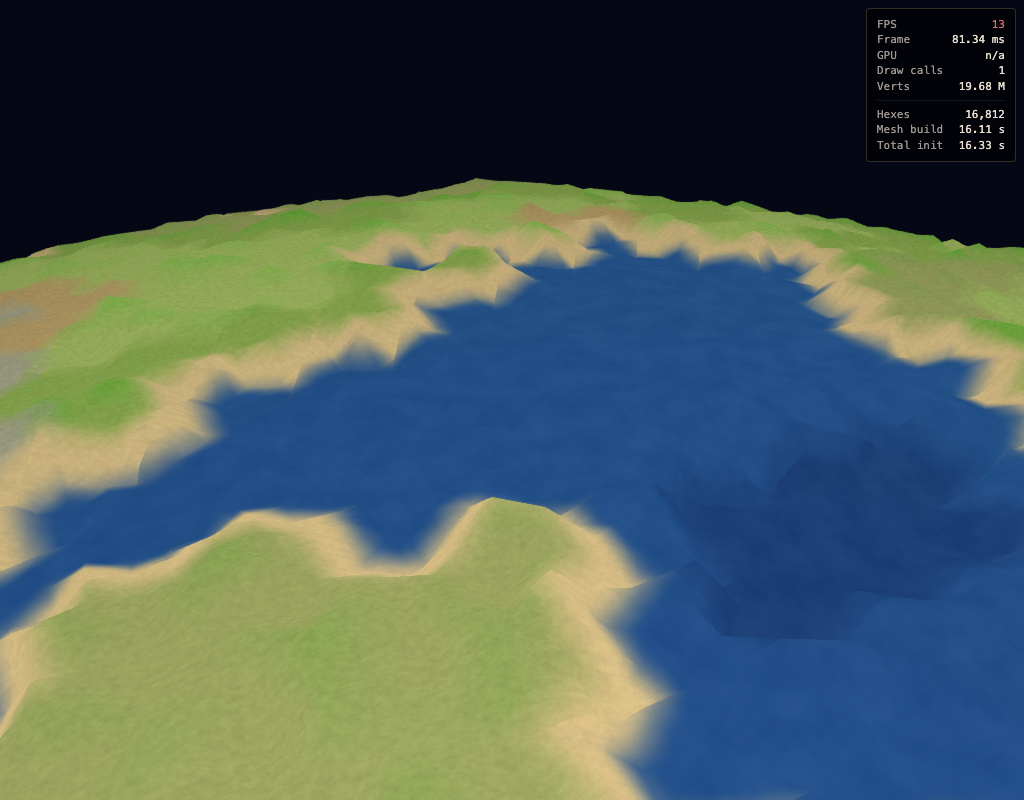
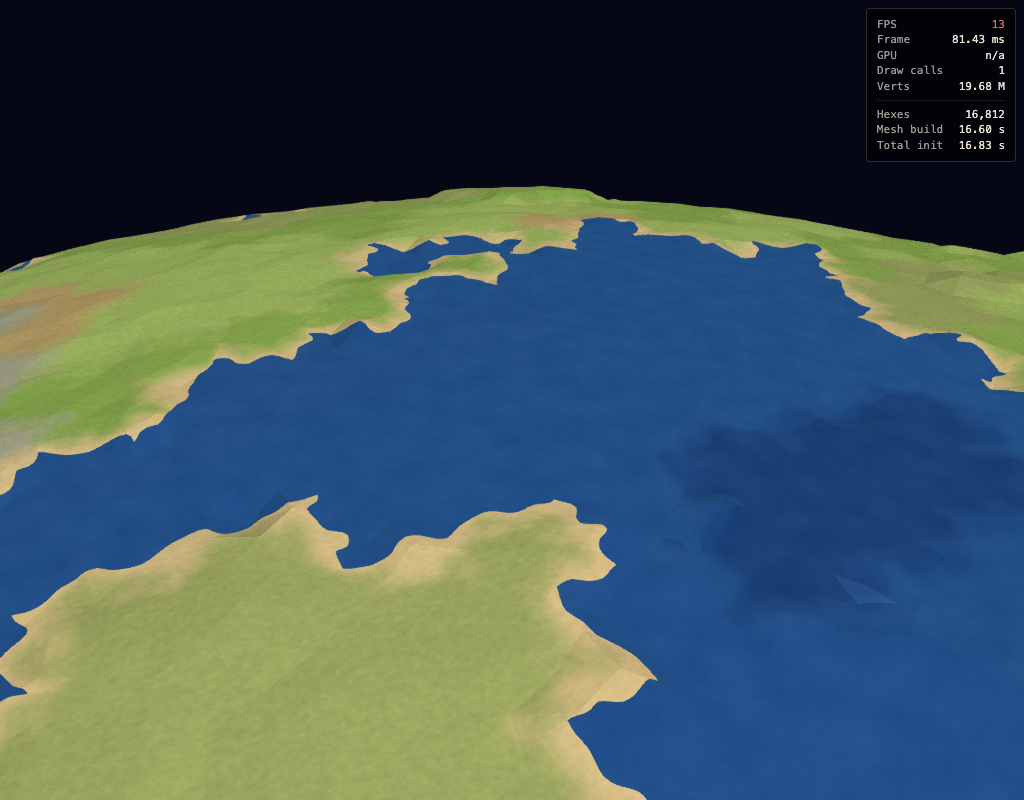
Phase 5+6: dFdx normals, water-flatten, boundary-noise — match legacy quality
User feedback: terrains looked flat / 90s game / coastline blocky / cliffs no
texture. Multiple structural fixes:

1. Surface normals via dFdx/dFdy of vWorldPos. The legacy GLSL_CLIFF_
   RENDERING chunk gates rock-texture rendering on
   `steepness > 0.003`, but my smooth-sphere normal stayed radial -> 0
   steepness -> the slab-rock branch never fired. Now we compute the
   actual triangle facet normal from screen-space derivatives of the
   displaced world position. Cliff faces light up with the legacy slab
   texture.

2. Flat water surface. Phase 5 was displacing water tiers (-0.020R,
   -0.008R) to different elevations, producing visible stair-step seams
   in the water. Water hexes now collapse to a uniform WATER_FLAT_DEPTH
   = -0.001R. Tier color difference (deep vs shallow) is preserved
   purely in the fragment-side fresnel mix.

3. Sharp coast boundary. Inline water rendering moved to AFTER the cliff
   and beach branches (string-spliced into GLSL_BEACH_OVERLAY_NO_CLOSE),
   so the legacy cliff/beach overlays don't bleed rock textures onto
   water hex tops. Cross-blend across water<->land transitions is
   suppressed; only water<->water (deep<->shallow) blends.

4. Boundary-noise perturbation. The biggest fix: hex IDs come from
   worldPosToHexId(vSpherePos), so colors were always hex-aligned even
   though geometry was displaced. Solution: perturb the lookup position
   itself with a 3D simplex noise (amp 0.004 unit-sphere, freq 80) just
[…]

diff --git a/src/lib/engine/shader-globe-material.ts b/src/lib/engine/shader-globe-material.ts
@@ -318,11 +318,26 @@ float tierHeight(float level) {
 vec2 phase5AndPhase6Displacement(vec3 P, float ownLevel) {
     if (g_hexId < 0.0) return vec2(0.0, 1.0); // safe fallback
 
-    float ownH = tierHeight(ownLevel);
+    // Water hexes (heightLevel 0 or 1) collapse to a single uniform depth
+    // just below sea level. Two reasons:
+    //
+    //   1. Without flattening, deep ocean (-0.020R) vs shallow (-0.008R)
+    //      produce stair-step seams in the water surface (inline water
+    //      paints the displaced seafloor, not a separate flat plane).
+    //
+    //   2. The flat depth must be slightly below tier 2 land (0.0R) so
+    //      every coastline (including water -> tier 2 land) shows a
+    //      geometric cliff. If both were 0, coastlines would be perfectly
+    //      hex-aligned with no displacement to break the 60-degree edges.
+    //
+    // -0.001R = ~6 km. Subtle but enough for Phase 6 noise to wiggle the
+    // boundary visibly. Deep vs shallow color difference is preserved
+    // purely in the fragment-side fresnel mix (no geometry needed).
+    const float WATER_FLAT_DEPTH = -0.001;
+    bool ownIsWater = (ownLevel <= 1.5);
+    float ownH = ownIsWater ? WATER_FLAT_DEPTH : tierHeight(ownLevel);
 
     if (g_isPentagon) {
-        // Pentagons: flat top, no noise (they don't have a clean (i, j) for
-        // the row-parity-dependent neighbor offsets).
         return vec2(ownH, 1.0);
     }
 
@@ -340,7 +355,16 @@ vec2 phase5AndPhase6Displacement(vec3 P, float ownLevel) {
 
     float nbHexId = neighborIdAtEdge(closestEdge);
     float nbLevel = (nbHexId >= 0.0) ? sampleHexData(nbHexId).y : ownLevel;
-    float nbH = tierHeight(nbLevel);
+    bool nbIsWater = (nbLevel <= 1.5);
+    float nbH = nbIsWater ? WATER_FLAT_DEPTH : tierHeight(nbLevel);
+
+    // For Phase 6 cliff-noise activation we want the *real* tier delta,
+    // not the post-flatten delta. Water-flatten makes water and land tier-2
+    // both sit at h=0 (delta=0), which would kill cliff noise at every
+    // sea-level coastline. Compute the "true" delta from the tier tables.
+    float ownTierH = tierHeight(ownLevel);
+    float nbTierH  = tierHeight(nbLevel);
+    float trueHeightDelta = abs(nbTierH - ownTierH);
 
     // Strategy 3: flat hex top + sharp transition near edge. The "0.15"
     // is the plan's edge-band fraction (last 15% of edge distance gets the
@@ -349,19 +373,18 @@ vec2 phase5AndPhase6Displacement(vec3 P, float ownLevel) {
     float strategyH = mix(nbH, ownH, t);
     float h = strategyH;
 
-    // Interior surface noise (matches legacy hex-heights.ts). Applied to
-    // every vertex, not just at cliff edges -- gives the small variation
-    // legacy mesh has from fbm displacement on every hex top. 3-octave
-    // simplex; water hexes (level 0/1) use abs() so the noise pushes UP
-    // from the seafloor rather than oscillating sea level; land hexes
-    // bias slightly upward (+0.3) to match legacy's land formula.
-    {
+    // Interior surface noise. Land hexes only -- water surface stays
+    // perfectly flat at sea level. The legacy stack gets bumpy water
+    // visuals from the water-sphere's wave shader, not from displacement.
+    // Adding noise to water hexes here would re-introduce the visible
+    // stair-step / wobble pattern we just fixed by flattening to sea level.
+    if (!ownIsWater) {
         vec3 iP = P * interiorNoiseFreq;
         float iN = snoise(iP)         * 0.55
                  + snoise(iP * 2.07)   * 0.30
                  + snoise(iP * 4.13)   * 0.15;
-        float iH = (ownLevel <= 1.5) ? abs(iN) : (iN + 0.3);
-        h += iH * interiorNoiseAmp;
+        // Land bias: +0.3 so plains don't dip below sea level into water palette.
+        h += (iN + 0.3) * interiorNoiseAmp;
     }
 
     // Phase 6: cliff-face noise. Active where edge is close AND height
@@ -372,8 +395,10 @@ vec2 phase5AndPhase6Displacement(vec3 P, float ownLevel) {
     // double-tier-step (delta=0.010) saturates. Audit-flagged: the prior
     // 0.012 underrepresented single-tier transitions.
     float cliffness = 1.0 - smoothstep(0.0, 0.15, edgeDistNorm);
-    float heightDelta = abs(nbH - ownH);
-    float cliffActivity = cliffness * smoothstep(0.0, 0.008, heightDelta);
+    // Use the tier-table delta (not the post-flatten delta) so coastlines
+    // (water tier 0/1 -> land tier 2/3/4) trigger cliff noise even though
+    // both sides display at h=0.
+    float cliffActivity = cliffness * smoothstep(0.0, 0.008, trueHeightDelta);
     if (cliffActivity > 0.0001) {
         // 3-octave simplex (snoise comes from GLSL_NOISE in fragment, from
         // GLSL_NOISE_VERTEX_SUBSET in vertex; same Ashima impl in both).
@@ -519,7 +544,20 @@ float snoise(vec3 v) {
 const GLSL_MAIN_SETUP_NEW = /* glsl */ `
 void main() {
     vec3 P = normalize(vSpherePos);
-    vec3 N = normalize(vWorldNormal);
+
+    // Analytic surface normal from screen-space derivatives of the
+    // *displaced* world position. The vertex shader sets vWorldNormal
+    // to the radial-out direction, but on cliff faces (where the Phase 5
+    // ramp tilts the surface 45-90deg sideways) that's wrong. Using
+    // dFdx/dFdy of vWorldPos gives the actual triangle's facet normal,
+    // including all the displacement noise. Result: legacy GLSL_CLIFF_
+    // RENDERING's steepness > 0.003 gate fires correctly on cliff faces,
+    // unlocking the slab-map rock texture.
+    vec3 ddxP = dFdx(vWorldPos);
+    vec3 ddyP = dFdy(vWorldPos);
+    vec3 N = normalize(cross(ddxP, ddyP));
+    if (dot(N, vWorldPos) < 0.0) N = -N;  // ensure outward orientation
+
     bool isWall = false;  // smooth sphere -- no walls
     float distFromCenter = length(vWorldPos);
     float heightAboveR = distFromCenter - planetRadius;
@@ -528,7 +566,22 @@ void main() {
     if (isWall) {
         procColor = vec3(0.0);
     } else {
-        computeHexLookup(P);
+        // Perturb the hex lookup position with a small noise displacement
+        // so coast and biome boundaries don't follow the perfect 60-degree
+        // hex edges. The noise amplitude must stay below the hex apothem
+        // in unit-sphere terms (~ 0.5/(res+1) = 0.012 at res=40) so most
+        // fragments still land in their own hex; only fragments within
+        // ~AMP of an edge see the noise potentially flip them to the
+        // neighbor. Result: coastlines, biome borders, and cliff lines
+        // are all wavy rather than hex-aligned.
+        vec3 boundaryNoise = vec3(
+            snoise(P * 80.0),
+            snoise(P * 80.0 + vec3(100.0, 0.0, 0.0)),
+            snoise(P * 80.0 + vec3(0.0, 100.0, 0.0))
+        );
+        vec3 P_lookup = normalize(P + boundaryNoise * 0.004);
+
+        computeHexLookup(P_lookup);
         float hexIdF = g_hexId;
         if (hexIdF < 0.0) {
             gl_FragColor = vec4(0.4, 0.4, 0.4, 1.0);
@@ -636,10 +689,18 @@ void main() {
             procColor = ownColor;
         }
 
-        // Phase 4 inline water (see comments on the original Phase 4
-        // commit). Phase 5/6 displacement makes water hexes geometrically
-        // lower than land, but we keep the inline color since the legacy
-        // water-sphere isn't wired into shader-preview yet.
+        // Water override is now in GLSL_WATER_OVERRIDE_LAST, injected at
+        // the END of the else block so the legacy cliff + beach branches
+        // can run for non-water hexes without overwriting water hex tops
+        // with seafloor rock textures.
+`;
+
+// ── GLSL_WATER_OVERRIDE_LAST ────────────────────────────────
+// Injected at the end of the else block (between BEACH_OVERLAY's body
+// and its closing brace) so cliff and beach branches don't overwrite
+// the water hex's surface with rock textures. Sharp coast boundary --
+// water-water cross-blend only, no water-land blend.
+const GLSL_WATER_OVERRIDE_LAST = /* glsl */ `
         if (selfIsWater) {
             vec3 viewDir = normalize(cameraPos - vWorldPos);
             float fresnel = pow(1.0 - max(0.0, dot(N, viewDir)), 2.0);
@@ -650,12 +711,12 @@ void main() {
             else selfWater = mix(deepColor, shallowColor, fresnel * 0.3 + 0.2);
 
             vec3 waterCol = selfWater;
-            if (hasCrossBlend) {
+            bool nbIsWater = (neighborId == 0 || neighborId == 1 || neighborId == 3);
+            if (hasCrossBlend && nbIsWater) {
                 vec3 nbWater;
                 if (neighborId == 0) nbWater = mix(deepColor, shallowColor, fresnel * 0.3 + 0.1);
                 else if (neighborId == 1) nbWater = mix(deepColor, shallowColor, fresnel * 0.3 + 0.4);
-                else if (neighborId == 3) nbWater = mix(deepColor, shallowColor, fresnel * 0.3 + 0.3) + vec3(-0.02, 0.02, 0.03);
-                else nbWater = procColor;
+                else nbWater = mix(deepColor, shallowColor, fresnel * 0.3 + 0.3) + vec3(-0.02, 0.02, 0.03);
                 float n1 = snoise(vWorldPos * 0.004) * 0.22;
                 float n2 = snoise(vWorldPos * 0.012) * 0.10;
                 float threshold = max(0.35 + n1 + n2, 0.08);
@@ -669,6 +730,12 @@ void main() {
         }
 `;
 
+// Strip the trailing `}` (closes the else) from GLSL_BEACH_OVERLAY so we
+// can inject the water override before that close. The legacy chunk's
+// last meaningful line is closing brace of its `if (coastProximity > ...)`
+// block; the very last `}` is the else-block close.
+const GLSL_BEACH_OVERLAY_NO_CLOSE = GLSL_BEACH_OVERLAY.replace(/\}\s*$/, '');
+
 const FRAGMENT =
 	GLSL_NOISE +
 	GLSL_PHASE4_UNIFORMS +
@@ -678,7 +745,9 @@ const FRAGMENT =
 	GLSL_HEX_HELPERS +
 	GLSL_MAIN_SETUP_NEW +
 	GLSL_CLIFF_RENDERING +
-	GLSL_BEACH_OVERLAY +
+	GLSL_BEACH_OVERLAY_NO_CLOSE +
+	GLSL_WATER_OVERRIDE_LAST +
+	'\n}\n' +              // close the else block
 	GLSL_LIGHTING;
 
 // Phase 6 default tunables. Cliff noise amplitude is in fraction-of-planet-
@@ -690,15 +759,23 @@ const FRAGMENT =
 // 1 / cliffStrataFreq fraction of planetRadius. freq=300 gives bands
 // every ~21 km, so ~5-10 visible bands across a tier transition.
 const PHASE6_DEFAULTS = {
-	cliffNoiseAmp: 0.005,
-	cliffNoiseFreq: 6.0,
+	// Cliff noise frequency must be HIGH enough that the noise varies
+	// meaningfully within the 12 km cliff transition band (15% of hex
+	// apothem). At freq=6 the noise period was 169 km -- the whole cliff
+	// band shifted uniformly per region, so coastlines stayed hex-aligned.
+	// Freq=40 -> period ~25 km, half a cycle across the cliff band ->
+	// visible per-hex boundary wiggle. Amp bumped 0.005 -> 0.010 so the
+	// coastline-shift effect (horizontal shift = vert noise / cliff slope)
+	// is visible at planet-scale views.
+	cliffNoiseAmp: 0.010,
+	cliffNoiseFreq: 40.0,
 	cliffStrataAmp: 0.0008,
 	cliffStrataFreq: 300.0,
-	// Interior noise -- matches legacy hex-heights.ts (NOISE_AMP=0.008,
-	// NOISE_SCALE=35). Without this, hex tops are perfectly flat and the
-	// terrain reads as "tile mosaic" instead of "noisy planet surface."
-	interiorNoiseAmp: 0.008,
-	interiorNoiseFreq: 35.0,
+	// Interior noise stays gentle so dFdx/dFdy normals don't see every
+	// per-triangle slope as a cliff. 0.0025R / freq 20 keeps the surface
+	// readable as bumpy plains without lighting up the slab-rock branch.
+	interiorNoiseAmp: 0.0025,
+	interiorNoiseFreq: 20.0,
 };
 
 export interface ShaderGlobeMaterialOptions {

diff --git a/src/lib/engine/globe.ts b/src/lib/engine/globe.ts
@@ -318,23 +318,32 @@ export async function createGlobeEngine(
 			globeMesh.setEnabled(true);
 			waterSphere.setEnabled(true);
 			shaderGlobe.mesh.setEnabled(false);
+			// Legacy depth list = legacy mesh.
+			depthTexture.renderList = [globeMesh];
 			camera.attachPostProcess(fxaa);
 		} else if (mode === 'shader-debug') {
 			// shader-debug renders raw bit-encoded IDs in mode 3; FXAA would
-			// average those bytes and corrupt the verifier output.
+			// average those bytes and corrupt the verifier output. Water
+			// sphere off so the bit-encoded debug colors aren't masked.
 			globeMesh.setEnabled(false);
 			waterSphere.setEnabled(false);
 			shaderGlobe.mesh.setEnabled(true);
 			shaderGlobe.mesh.material = debugMat;
+			depthTexture.renderList = [];
 			camera.detachPostProcess(fxaa);
 		} else {
 			// shader-preview: real biome rendering with Phase 5/6 displacement.
-			// FXAA on -- without it the cliff-edge transitions read as harsh
-			// stair-steps in the silhouette.
+			// Water sphere stays OFF: Babylon's depth renderer uses a
+			// default vertex shader that doesn't apply our displacement,
+			// so water-sphere depth-occlusion would see the un-displaced
+			// sphere and discard everywhere. A displacement-aware custom
+			// depth material is Phase 8 work; for now water is rendered
+			// inline by shader-globe-material with a sharp coast boundary.
 			globeMesh.setEnabled(false);
 			waterSphere.setEnabled(false);
 			shaderGlobe.mesh.setEnabled(true);
 			shaderGlobe.mesh.material = shaderGlobeMat;
+			depthTexture.renderList = [];
 			camera.attachPostProcess(fxaa);
 		}
 	}
